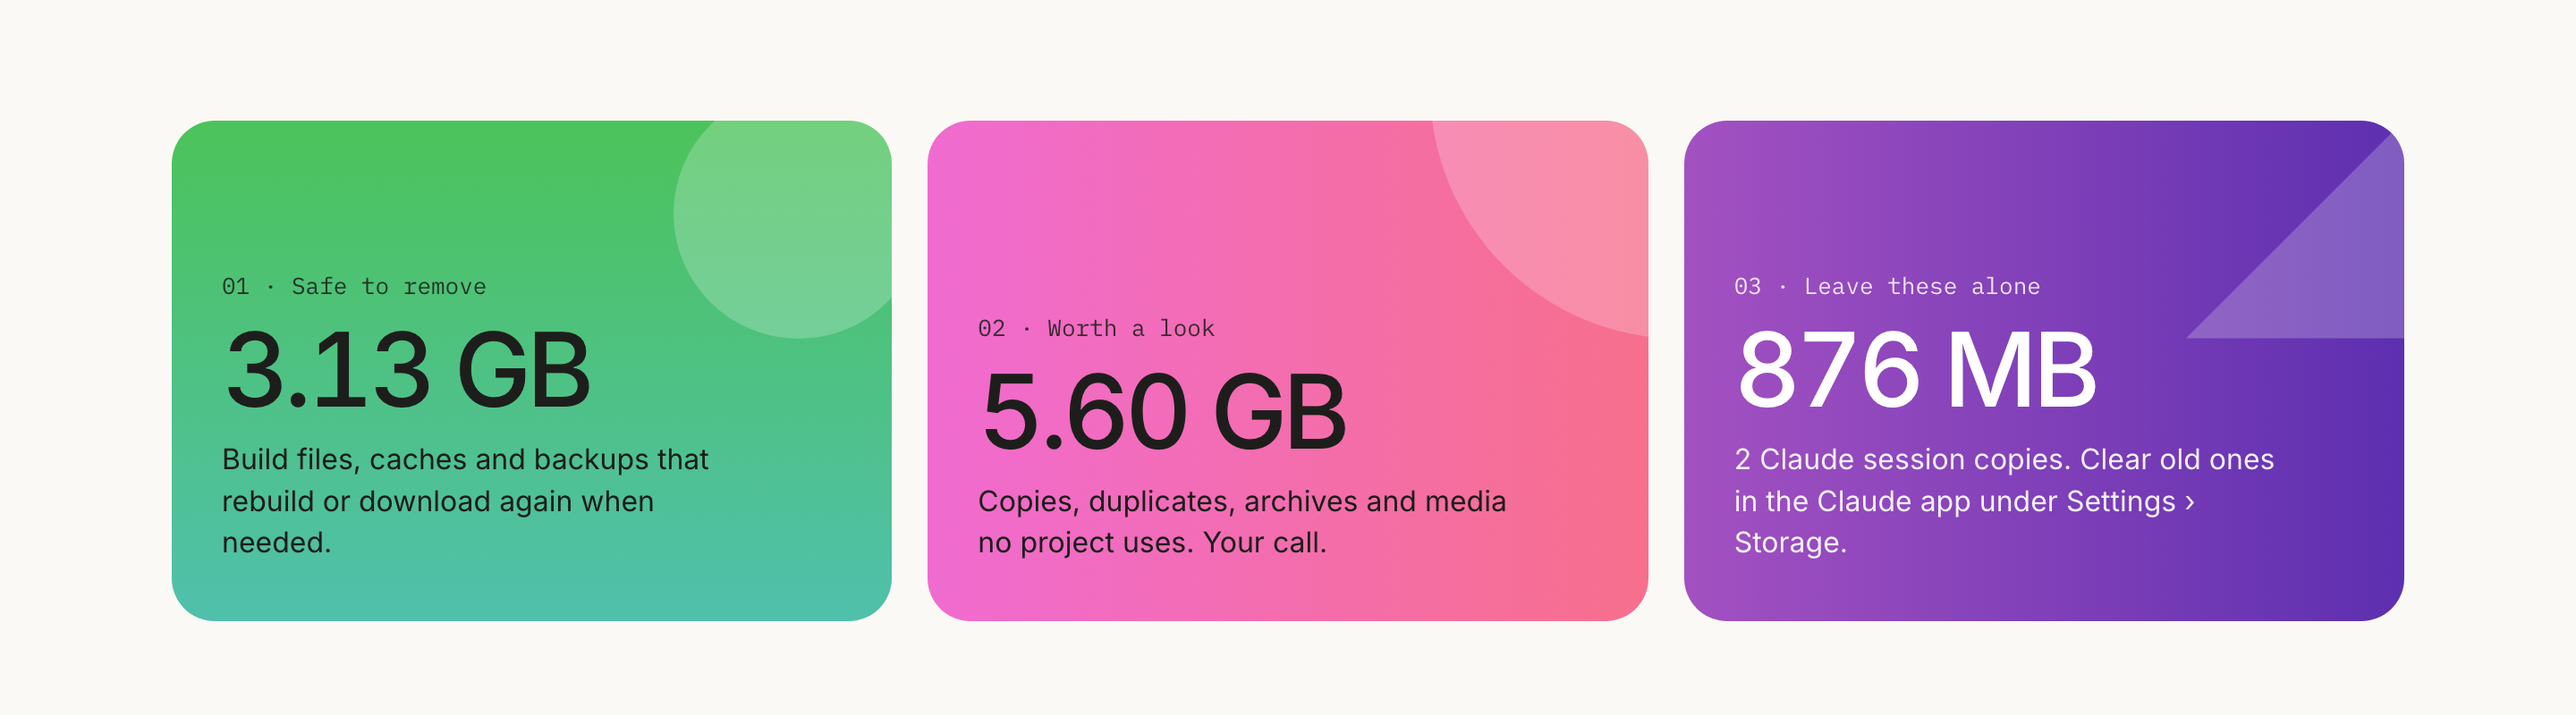
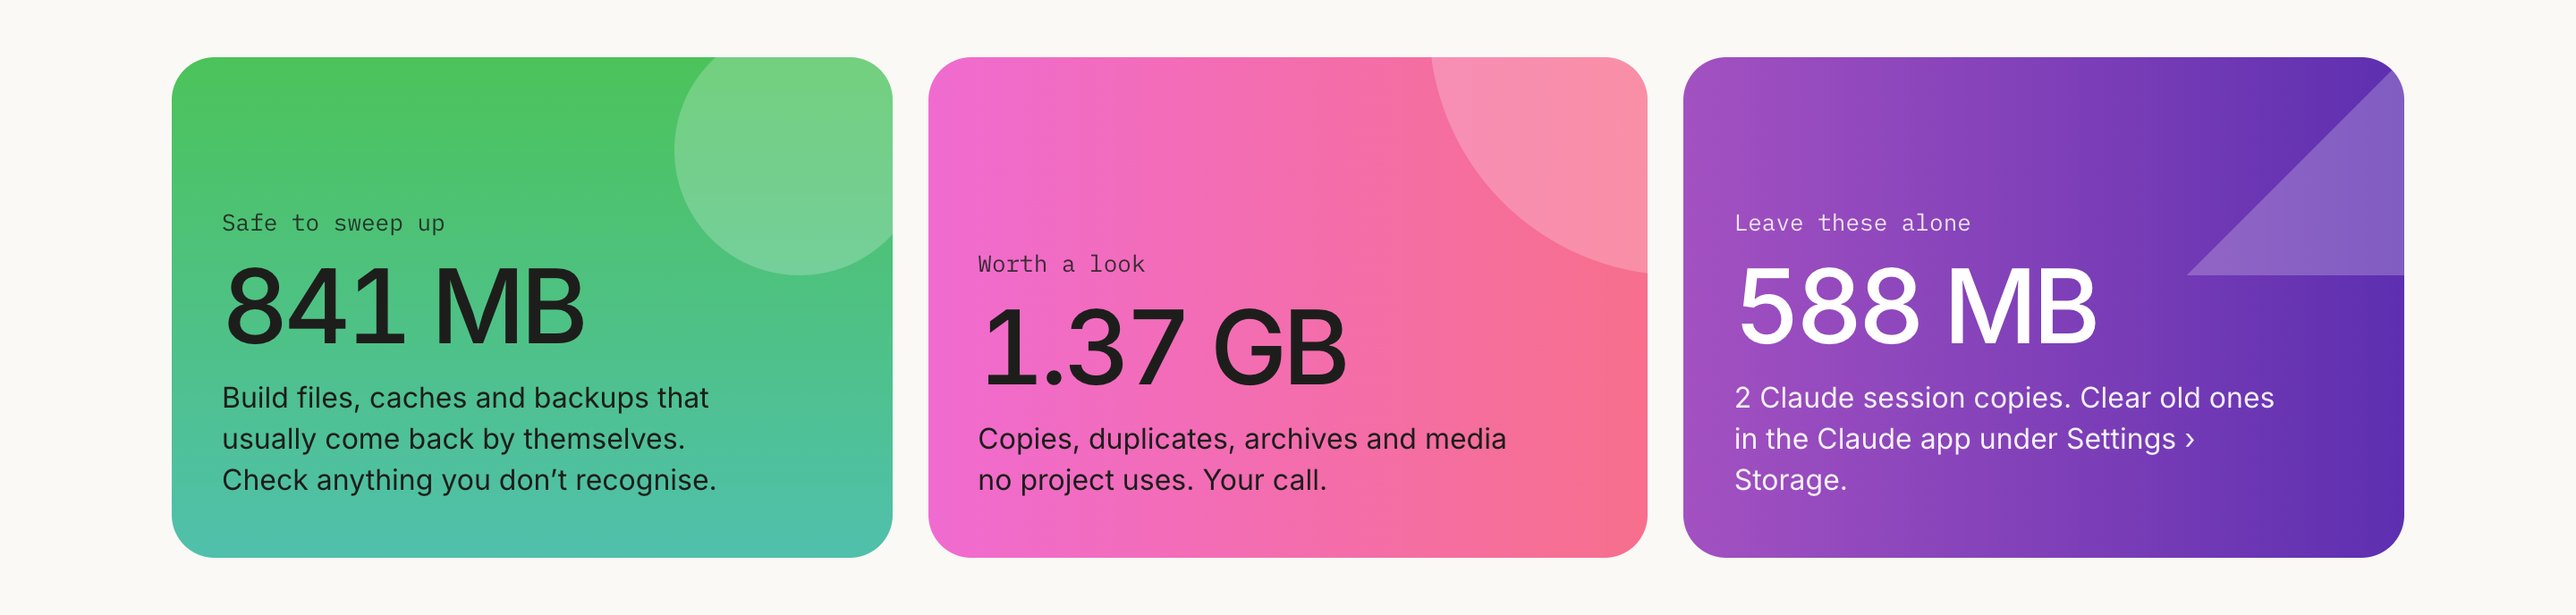
1.1.0: new screenshots and a Settings section in the README
Screenshots retaken from the demo folder (no real project names) showing
the current design with the shapes, the summary cards, choosing what to
keep and the new Settings page. The README now uses everyday example
requests and mentions the local-only security.

diff --git a/README.md b/README.md
@@ -30,7 +30,7 @@ claude plugin install cutting-room-floor@creativemash
 
 Type them straight into Terminal, as they are. (Inside a running Claude Code session, after you've typed `claude`, the same thing is `/plugin marketplace add CreativeMash/cutting-room-floor` and `/plugin install cutting-room-floor@creativemash`. Those `/plugin` versions don't work in a plain Terminal or in the desktop app.)
 
-Then start a new session and ask Claude something like *"what's on my cutting room floor?"* or *"what's taking up space in my projects?"*. The first time, Claude suggests folders to scan (the projects you've worked on with Claude, plus usual places like `~/Projects` or `Documents\GitHub`), you tick the ones you want, and it remembers them. Then it opens the page and talks you through what it found.
+Then start a new session and ask Claude in your own words, for example *"my Mac is running out of space"*, *"what can I delete in my projects?"* or *"what's on my cutting room floor?"*. The first time, Claude suggests folders to scan (the projects you've worked on with Claude, plus usual places like `~/Projects` or `Documents\GitHub`), you tick the ones you want, and it remembers them. Then it opens the page and talks you through what it found.
 
 ### Getting updates
 
@@ -60,9 +60,18 @@ python3 skills/cutting-room-floor/cutting_room_floor.py
 py -3 skills\cutting-room-floor\cutting_room_floor.py
 ```
 
-Your browser opens on a folder picker. Tick your project folders, or press **Choose a folder…** to pick one in Finder or Explorer, then press **Start the scan**. The results appear when it's done. Next time it goes straight to the scan. Open **Settings** in the header to change your folders or check for updates. Only ticked folders are scanned; use × on a card to take a folder off the list (suggested folders then stay hidden until you add them again).
+Your browser opens on a folder picker. Tick your project folders, or press **Choose a folder…** to pick one in Finder or Explorer, then press **Start the scan**. The results appear when it's done, and next time it goes straight to the scan.
 
 To update, download the ZIP again and replace the old folder (if you cloned it with Git, run `git pull` instead). Your saved folders are kept.
+
+## Settings
+
+![Settings: your folders and updates](screenshots/03-settings.png)
+
+Open **Settings** in the page's header to:
+
+- **Change your folders.** Only ticked folders are scanned. Add one with **Choose a folder…** (it opens Finder or Explorer) or paste its location. Use × to take a folder off the list; suggested folders then stay hidden until you add them again.
+- **Check for updates.** It asks GitHub for the latest version number, shows what's new, and explains how to update for the way you installed it. It never updates by itself. You can also have it check each time you open Cutting Room Floor.
 
 ## What it looks for
 
@@ -104,6 +113,7 @@ Saved folders live in `~/.config/cutting-room-floor/config.json` on macOS and Li
 
 - Cloud-only files (OneDrive "Files On-Demand", iCloud "Optimise Mac Storage") take no room on your disk, so they count as zero and are never opened, which means they are not downloaded by the scan.
 - Some things can't go to the Trash: anything on a network drive, and on Windows anything on a USB stick or too big for the Recycle Bin. The system would delete those for good, so they are marked "Can't go to the Trash" and can't be ticked.
+- The page only answers requests from itself, on your own computer, with a secret key made fresh each time it starts. Other websites and programs can't read your results or remove anything.
 - Symlinks and Windows junctions are skipped, so nothing is counted twice and the scan never wanders off to another drive.
 - On older macOS versions (before macOS 14), removing uses Finder, which may ask once for permission.
 - On Linux, removing needs `gio` (part of most desktops) or `trash-cli`.

diff --git a/CHANGELOG.md b/CHANGELOG.md
@@ -2,6 +2,11 @@
 
 Each release is listed here, newest first. The Settings page shows the notes for a new version when you check for updates, so keep each entry short and in plain words.
 
+## 1.1.0
+
+- The Creative Mash shapes are back beside the heading. You get a new random set each time, and clicking them shuffles them.
+- New screenshots and a Settings section in the README.
+
 ## 1.0.1
 
 - Claude now recognises everyday requests like "my Mac is running out of space" or "what can I delete?".
